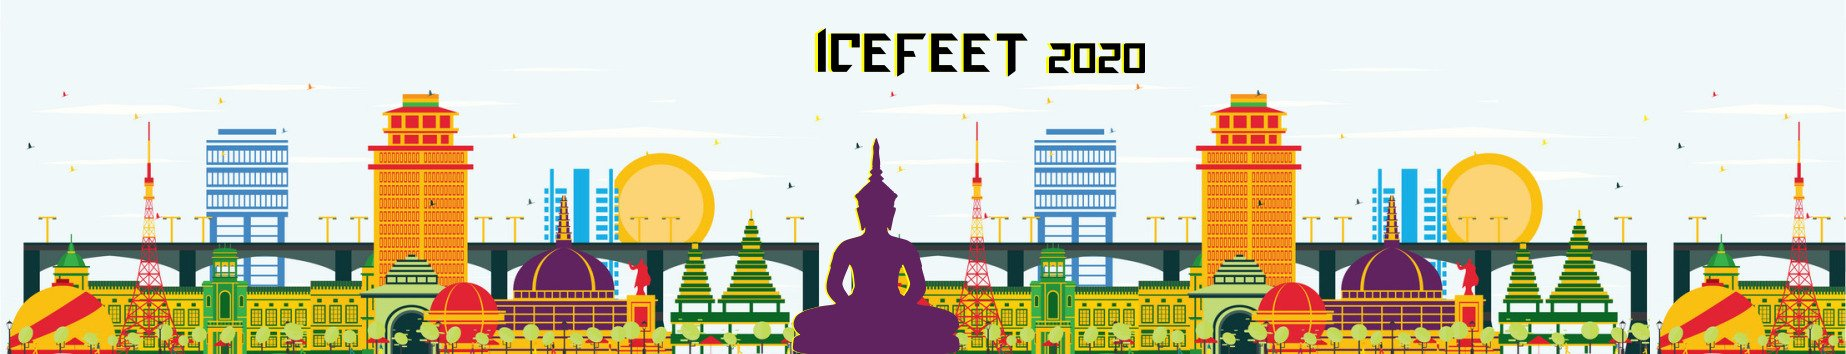
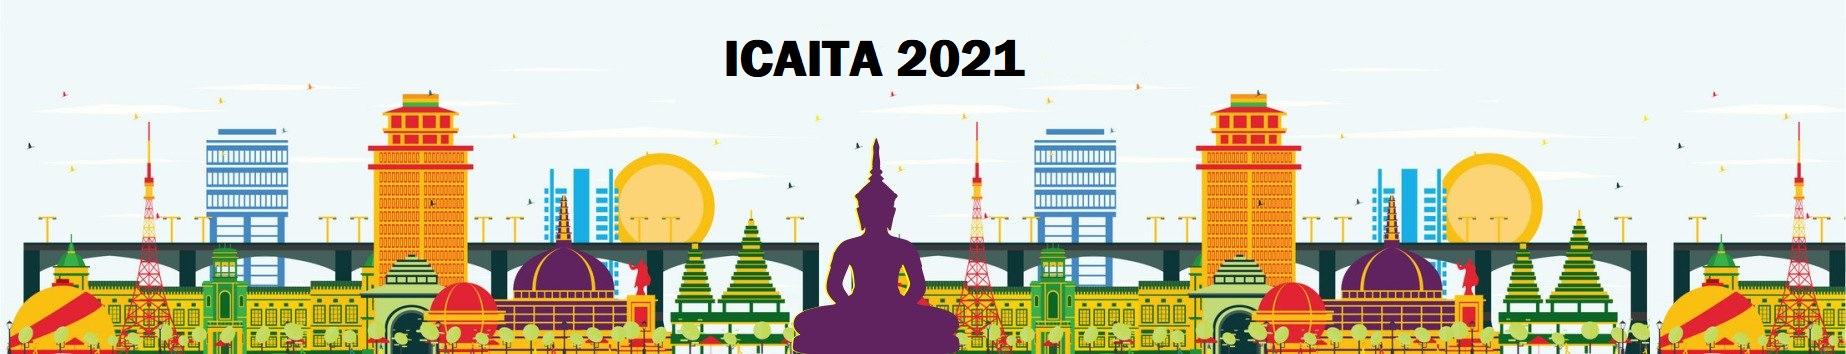
Title bar photo, footer and contact updated

Changed region(s): [[0.3705, 0.0932, 0.6176, 0.2175]]

diff --git a/public/registration/online.html b/public/registration/online.html
@@ -1186,7 +1186,7 @@
 •	Registration fee DOES NOT include accommodation during the conference.</br> 
 •	IEEE members are requested to send their active IEEE membership card or valid proof along with payment receipt during submission of registration form, if registering under IEEE category.</br>
 •   <strong>The authors’ names must match with the ones provided during the paper registration for review process.</br>
-•	 After registration process is completed, please mail the registration form, transaction receipt, and IEEE membership card/Student ID Card (as applicable) as proofs of registration to icefeet@nitp.ac.in with subject line as:</strong></br>
+•	 After registration process is completed, please mail the registration form, transaction receipt, and IEEE membership card/Student ID Card (as applicable) as proofs of registration to eceoffice@nitp.ac.in with subject line as:</strong></br>
 <h6 style="color:black;"> <strong> ICEFET2020: Conference registration documents for Paper No ______ </strong> </h6> </br>
 
 
@@ -1201,7 +1201,7 @@
                                     <!--All persons presenting papers must be registered. Unregistered authors/co-authors will be barred from presenting the paper. If the paper is not permitted to be presented, it will not be uploaded to IEEE Xplore. -->
 								•	The Registration fee is payable from any bank through online transaction (NEFT/ IMPS) to the following account. </br>         
 •	In case of discounted rate, you must send in some proof, along with this form. For a) student discount, send official student ID, b) for IEEE membership discount, send valid IEEE membership proof, and c) send both (a) and (b) if applicable.</br> 
-•	After completing the payment,  a) the receipt of payment  b) valid proof for discount if any), c) Registration form (can be downloaded<a href="../registration/Registration_Form.docx" download> here</a> or from the link below) are to be sent to icefeet@nitp.ac.in. </br>  </br> 
+•	After completing the payment,  a) the receipt of payment  b) valid proof for discount if any), c) Registration form (can be downloaded<a href="../registration/Registration_Form.docx" download> here</a> or from the link below) are to be sent to eceoffice@nitp.ac.in. </br>  </br> 
                                 <p class="animated flash infinite" style="color:red;font-size:20px;text-shadow:0px 0px 25px;"> Registration form can be downloaded<a href="../registration/Registration_Form.docx" download> here</a> </p>
           
 Account details can be found as below: </br> 
@@ -1256,7 +1256,7 @@ Bank Name:-  	Allahabad Bank
 
                         <li id="text-6" class="widget-container widget_text">
                             <h3 class="widget-title"><span>Contact</span></h3>
-                            <div class="textwidget"> icefeet@nitp.ac.in</div>
+                            <div class="textwidget"> eceoffice@nitp.ac.in</div>
                         </li>
 
 
@@ -1397,7 +1397,7 @@ Bank Name:-  	Allahabad Bank
                                     </td>
                                     <td>&nbsp;</td>
                                     <td width="119">&nbsp;</td>
-                                    <td width="510">Designed and Maintained by <strong><font color=" #f1c40f">SAURABH JHA</font></strong></td>
+                                    <td width="510">  <strong><font color=" #f1c40f"> </font></strong></td>
                                 </tr>
                             </tbody>
                         </table>

diff --git a/public/author/finalpaper.html b/public/author/finalpaper.html
@@ -237,7 +237,7 @@
 							<h5><strong><span style="color: #800000;">PDF Express Compliant Camera-Ready Paper Submission Guidelines </span></strong></h5></br>
 							 <hr>
 <strong>Camera-ready Submission Deadline:</strong>  June 30, 2020. </br>
-<strong>The PDF-Express Compliant Camera Ready paper should be mailed to icefeet@nitp.ac.in.  </br>
+<strong>The PDF-Express Compliant Camera Ready paper should be mailed to eceoffice@nitp.ac.in.  </br>
 </strong></br>
 
 <h5><strong><span style="color: #800000;">GUIDELINES TO SUBMIT THE PDF-EXPRESS COMPLIANT CAMERA-READY PAPER</span></strong></h5></br>
@@ -266,7 +266,7 @@ Final papers can be prepared and submitted following five easy steps:</br>
 
 <strong>Step 4 -  Send the Camera Ready Paper </strong></br>
 
-<strong> The final paper should be mailed to icefeet@nitp.ac.in. The subject line of the mail shall be: </br>
+<strong> The final paper should be mailed to eceoffice@nitp.ac.in. The subject line of the mail shall be: </br>
 ICEFEET2020: PDF-Express Compliant Camera Ready Paper for Paper No _____
 </strong></br></br>
 
@@ -298,7 +298,7 @@ Access the IEEE PDF eXpress plus site at: <a href="http://www.pdf-express.org/pl
 <strong>IEEE Policies:</strong></br>
 Papers are reviewed on the basis that they do not contain plagiarized material and have not been submitted to any other conference at the same time (double submission). These matters are taken very seriously and the IEEE will take action against any author who engages in either practice. Follow these links to learn more: IEEE Policy on Plagiarism and IEEE Policy on Double Submission.</br>
 Submitted papers must be unpublished and not currently under review for any other publication. Authors of accepted papers will need to sign an IEEE copyright release form and present their paper at the conference. If you have any questions regarding the submission of manuscripts, please contact the Publications Chair.</br>
-For all paper related queries authors are requested to drop a mail to: <strong>icefeet@nitp.ac.in</strong></br>
+For all paper related queries authors are requested to drop a mail to: <strong>eceoffice@nitp.ac.in</strong></br>
 
 
 							
@@ -328,7 +328,7 @@ For all paper related queries authors are requested to drop a mail to: <strong>i
 						</li>
 						
 						<li id="text-6" class="widget-container widget_text"><h3 class="widget-title"><span>Contact</span></h3>			
-							<div class="textwidget"> icefeet@nitp.ac.in</div>
+							<div class="textwidget"> eceoffice@nitp.ac.in</div>
 						</li>
 							
 							
@@ -451,7 +451,7 @@ For all paper related queries authors are requested to drop a mail to: <strong>i
 								<td><div><p>&nbsp;&nbsp;&nbsp; copyrights ©<font color=" #f1c40f"><strong>ICAITA - 2021</strong></font>, inc. All rights reserved.</p></div></td>
 								<td>&nbsp;</td>
 								<td width="119">&nbsp;</td>
-								<td width="510">Designed and Maintained by <strong><font color=" #f1c40f">SAURABH JHA</font></strong></td>
+								<td width="510">  <strong><font color=" #f1c40f"> </font></strong></td>
 							</tr></tbody>
 						</table>
 					</div>

diff --git a/public/home/home.html b/public/home/home.html
@@ -1120,10 +1120,10 @@
                             <!-- <p class="animated flash infinite" style="color:red;font-size:20px;text-shadow:0px 0px 25px;">Paper submission is closed.</p><!-->
                             <!--     <p class="animated flash infinite" style="color:red;font-size:20px;text-shadow:0px 0px 25px;"> List of accepted papers can be found <a href="../author/List of Accepted Papers.pdf" download> here</a> </p>-->
 
-                            <span style="color:blue;font-size:20px;text-shadow:0px 0px 25px;">Submission decisions are being communicated to the authors. The authors unable / not willing to travel will be allowed to make online presentation.<br /><br />All accepted and presented papers will be uploaded in IEEExplore<br />(Record No. 49149)</span>
+                            <!--<span style="color:blue;font-size:20px;text-shadow:0px 0px 25px;">Submission decisions are being communicated to the authors. The authors unable / not willing to travel will be allowed to make online presentation.<br /><br />All accepted and presented papers will be uploaded in IEEExplore<br />(Record No. 49149)</span>
 
 
-                            <hr />
+                            <hr />  -->
                             <p>
                                 <strong>International Conference on Artificial Intelligence: Theory and Applications</strong> (AITA-2021)
                                 will be a leading conference for bringing students, researchers, faculty members and industry
@@ -1186,7 +1186,7 @@
 
                         <li id="text-6" class="widget-container widget_text">
                             <h3 class="widget-title"><span>Contact</span></h3>
-                            <div class="textwidget"> icefeet@nitp.ac.in</div>
+                            <div class="textwidget"> icaita@nitp.ac.in</div>
                         </li>
 
 
@@ -1374,7 +1374,7 @@
                                     </td>
                                     <td>&nbsp;</td>
                                     <td width="119">&nbsp;</td>
-                                    <td width="510">Designed and Maintained by <strong><font color=" #f1c40f">SAURABH JHA</font></strong></td>
+                                    <td width="510">  <strong><font color=" #f1c40f"> </font></strong></td>
                                 </tr>
                             </tbody>
                         </table>

diff --git a/public/index.html b/public/index.html
@@ -1146,7 +1146,7 @@
 
                             <li id="text-6" class="widget-container widget_text">
                                 <h3 class="widget-title"><span>Contact</span></h3>
-                                <div class="textwidget"> icefeet@nitp.ac.in</div>
+                                <div class="textwidget"> icaita@nitp.ac.in</div>
                             </li>
 
 
@@ -1181,7 +1181,7 @@
 
                                     <font color="#000000">Full paper submission closes :</font><br> &nbsp; &nbsp;
                                     <i class="wp-svg-calendar-2 calendar-2"></i>
-                                    <strong>&nbsp;Extended till 25-03-2020 </strong>
+                                    <strong>&nbsp;Extended till xx-xx-2021 </strong>
                                     <br>
 
                                     <font color="#000000">Acceptance Notification : </font>
@@ -1273,7 +1273,7 @@
                                         </td>
                                         <td>&nbsp;</td>
                                         <td width="119">&nbsp;</td>
-                                        <td width="510">Designed and Maintained by <strong><font color=" #f1c40f">SAURABH JHA</font></strong></td>
+                                        <td width="510">  <strong><font color=" #f1c40f"> </font></strong></td>
                                     </tr>
                                 </tbody>
                             </table>

diff --git a/public/commitee/committee.html b/public/commitee/committee.html
@@ -1604,7 +1604,7 @@
 
                         <li id="text-6" class="widget-container widget_text">
                             <h3 class="widget-title"><span>Contact</span></h3>
-                            <div class="textwidget"> icefeet@nitp.ac.in</div>
+                            <div class="textwidget"> eceoffice@nitp.ac.in</div>
                         </li>
 
 
@@ -1716,7 +1716,7 @@
                                         </td>
                                         <td>&nbsp;</td>
                                         <td width="119">&nbsp;</td>
-                                        <td width="510">Designed and Maintained by <strong><font color=" #f1c40f">Web Development Committee, ICEFEET-2020</font></strong></td>
+                                        <td width="510"> <strong><font color=" #f1c40f"> </font></strong></td>
                                     </tr>
                                 </tbody>
                             </table>

diff --git a/public/registration/offline.html b/public/registration/offline.html
@@ -1149,7 +1149,7 @@
 
                         <li id="text-6" class="widget-container widget_text">
                             <h3 class="widget-title"><span>Contact</span></h3>
-                            <div class="textwidget"> icefeet@nitp.ac.in</div>
+                            <div class="textwidget"> eceoffice@nitp.ac.in</div>
                         </li>
 
 
@@ -1274,7 +1274,7 @@
                                     </td>
                                     <td>&nbsp;</td>
                                     <td width="119">&nbsp;</td>
-                                    <td width="510">Designed and Maintained by <strong><font color=" #f1c40f">SAURABH JHA</font></strong></td>
+                                    <td width="510">  <strong><font color=" #f1c40f"> </font></strong></td>
                                 </tr>
                             </tbody>
                         </table>

diff --git a/public/venue/venue.html b/public/venue/venue.html
@@ -1128,7 +1128,7 @@
 
                         <li id="text-6" class="widget-container widget_text">
                             <h3 class="widget-title"><span>Contact</span></h3>
-                            <div class="textwidget"> icefeet@nitp.ac.in</div>
+                            <div class="textwidget"> eceoffice@nitp.ac.in</div>
                         </li>
 
 
@@ -1253,7 +1253,7 @@
                                     </td>
                                     <td>&nbsp;</td>
                                     <td width="119">&nbsp;</td>
-                                    <td width="510">Designed and Maintained by <strong><font color=" #f1c40f">SAURABH JHA</font></strong></td>
+                                    <td width="510">  <strong><font color=" #f1c40f"> </font></strong></td>
                                 </tr>
                             </tbody>
                         </table>

diff --git a/public/author/digest.html b/public/author/digest.html
@@ -254,7 +254,7 @@
 						</li>
 						
 						<li id="text-6" class="widget-container widget_text"><h3 class="widget-title"><span>Contact</span></h3>			
-							<div class="textwidget"> icefeet@nitp.ac.in</div>
+							<div class="textwidget"> eceoffice@nitp.ac.in</div>
 						</li>
 							
 							
@@ -375,7 +375,7 @@
 								<td><div><p>&nbsp;&nbsp;&nbsp; copyrights ©<font color=" #f1c40f"><strong>ICAITA - 2021</strong></font>, inc. All rights reserved.</p></div></td>
 								<td>&nbsp;</td>
 								<td width="119">&nbsp;</td>
-								<td width="510">Designed and Maintained by <strong><font color=" #f1c40f">SAURABH JHA</font></strong></td>
+								<td width="510">  <strong><font color=" #f1c40f"> </font></strong></td>
 							</tr></tbody>
 						</table>
 					</div>

diff --git a/public/link/college.html b/public/link/college.html
@@ -264,7 +264,7 @@
 						</li>
 						
 						<li id="text-6" class="widget-container widget_text"><h3 class="widget-title"><span>Contact</span></h3>			
-							<div class="textwidget"> icefeet@nitp.ac.in</div>
+							<div class="textwidget"> eceoffice@nitp.ac.in</div>
 						</li>
 							
 							
@@ -385,7 +385,7 @@
 								<td><div><p>&nbsp;&nbsp;&nbsp; copyrights ©<font color=" #f1c40f"><strong>ICAITA - 2021</strong></font>, inc. All rights reserved.</p></div></td>
 								<td>&nbsp;</td>
 								<td width="119">&nbsp;</td>
-								<td width="510">Designed and Maintained by <strong><font color=" #f1c40f">SAURABH JHA</font></strong></td>
+								<td width="510">  <strong><font color=" #f1c40f"> </font></strong></td>
 							</tr></tbody>
 						</table>
 					</div>

diff --git a/public/program/Tutorials/tutorials.html b/public/program/Tutorials/tutorials.html
@@ -254,7 +254,7 @@
 							</li>
 
 							<li id="text-6" class="widget-container widget_text"><h3 class="widget-title"><span>Contact</span></h3>
-								<div class="textwidget"> icefeet@nitp.ac.in</div>
+								<div class="textwidget"> eceoffice@nitp.ac.in</div>
 							</li>
 
 
@@ -363,7 +363,7 @@
 								<td><div><p>&nbsp;&nbsp;&nbsp; copyrights ©<font color=" #f1c40f"><strong>ICAITA - 2021</strong></font>, inc. All rights reserved.</p></div></td>
 								<td>&nbsp;</td>
 								<td width="119">&nbsp;</td>
-								<td width="510">Designed and Maintained by <strong><font color=" #f1c40f">SAURABH JHA</font></strong></td>
+								<td width="510">  <strong><font color=" #f1c40f"> </font></strong></td>
 							</tr></tbody>
 						</table>
 					</div>

diff --git a/public/program/final_schedule/finalschedule.html b/public/program/final_schedule/finalschedule.html
@@ -255,7 +255,7 @@
 							</li>
 
 							<li id="text-6" class="widget-container widget_text"><h3 class="widget-title"><span>Contact</span></h3>
-								<div class="textwidget"> icefeet@nitp.ac.in</div>
+								<div class="textwidget"> eceoffice@nitp.ac.in</div>
 							</li>
 
 
@@ -364,7 +364,7 @@
 								<td><div><p>&nbsp;&nbsp;&nbsp; copyrights ©<font color=" #f1c40f"><strong>ICAITA - 2021</strong></font>, inc. All rights reserved.</p></div></td>
 								<td>&nbsp;</td>
 								<td width="119">&nbsp;</td>
-								<td width="510">Designed and Maintained by <strong><font color=" #f1c40f">SAURABH JHA</font></strong></td>
+								<td width="510">  <strong><font color=" #f1c40f"> </font></strong></td>
 							</tr></tbody>
 						</table>
 					</div>

diff --git a/public/program/industry_sessions/industry.html b/public/program/industry_sessions/industry.html
@@ -255,7 +255,7 @@
 							</li>
 
 							<li id="text-6" class="widget-container widget_text"><h3 class="widget-title"><span>Contact</span></h3>
-								<div class="textwidget"> icefeet@nitp.ac.in</div>
+								<div class="textwidget"> eceoffice@nitp.ac.in</div>
 							</li>
 
 
@@ -364,7 +364,7 @@
 								<td><div><p>&nbsp;&nbsp;&nbsp; copyrights ©<font color=" #f1c40f"><strong>ICAITA - 2021</strong></font>, inc. All rights reserved.</p></div></td>
 								<td>&nbsp;</td>
 								<td width="119">&nbsp;</td>
-								<td width="510">Designed and Maintained by <strong><font color=" #f1c40f">SAURABH JHA</font></strong></td>
+								<td width="510">  <strong><font color=" #f1c40f"> </font></strong></td>
 							</tr></tbody>
 						</table>
 					</div>
